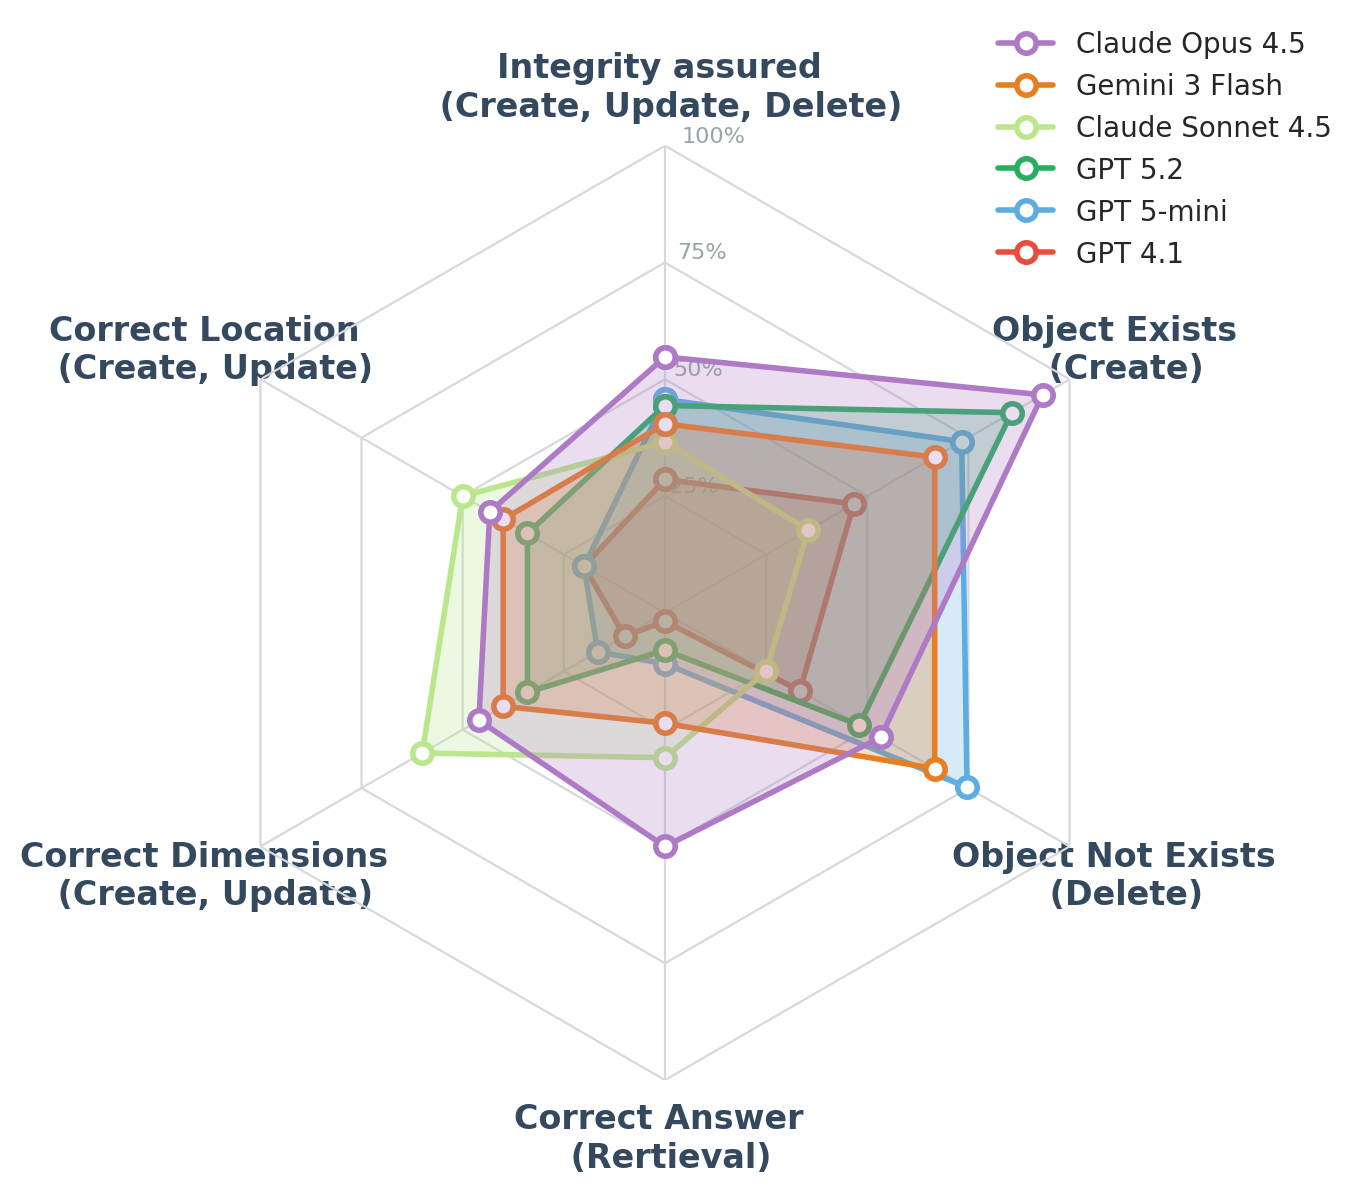
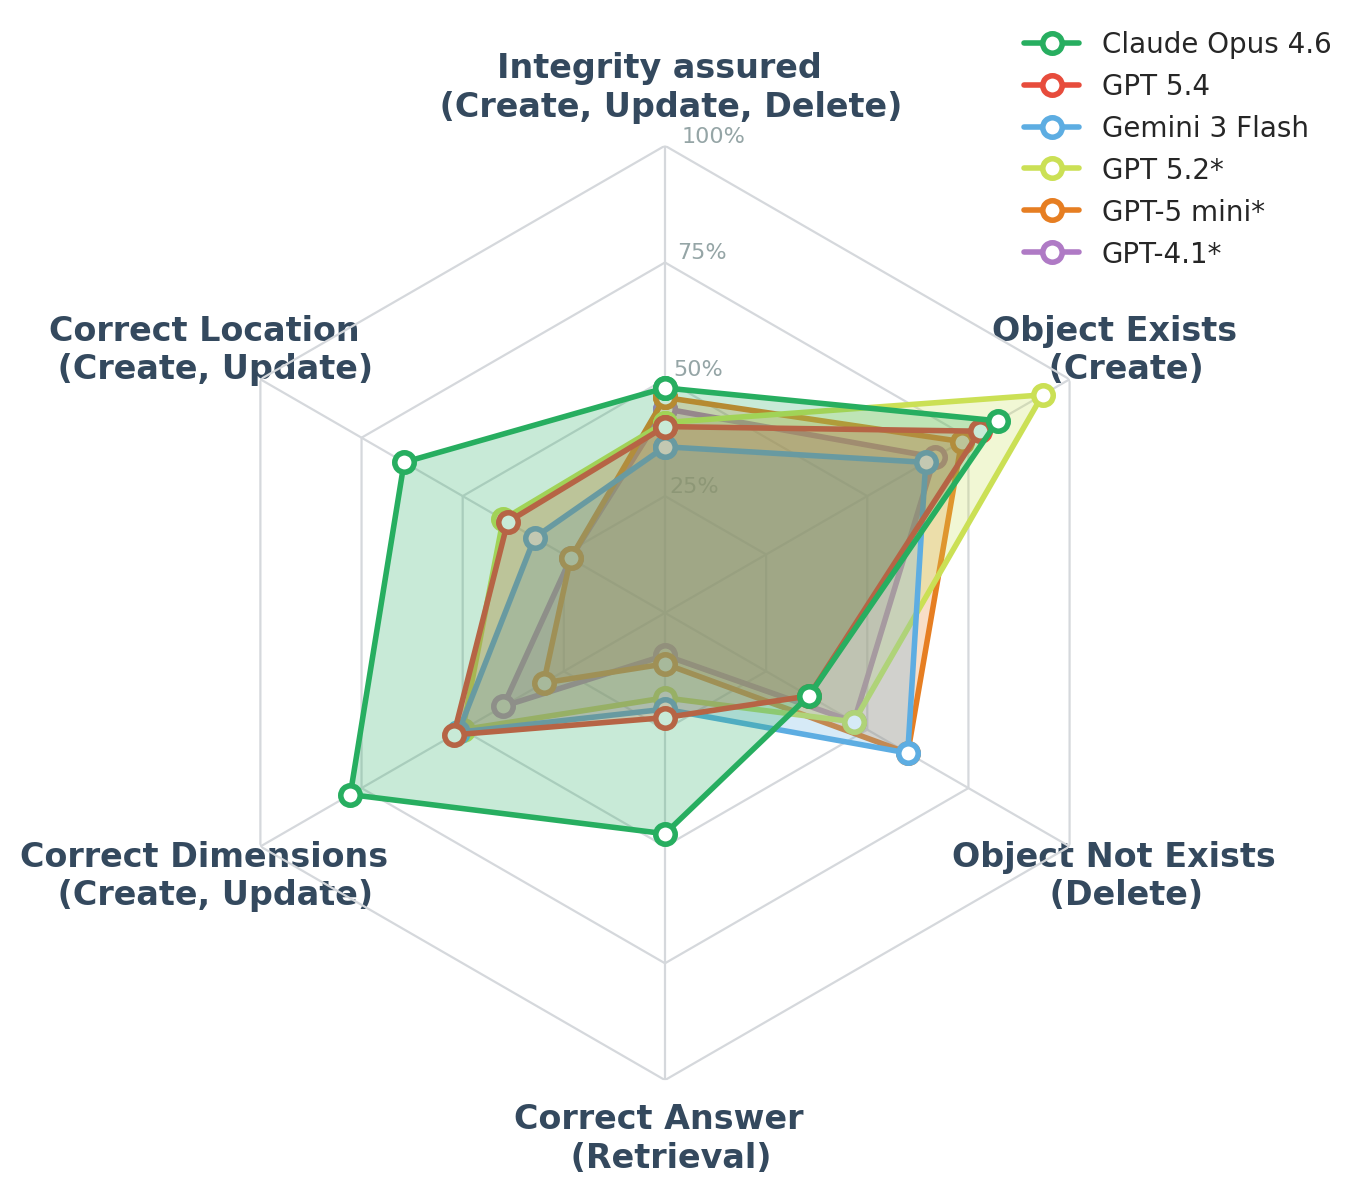
Update new results

Changed region(s): [[0.2467, 0.2789, 0.7709, 0.7127], [0.7401, 0.031, 0.9868, 0.2169], [0.4626, 0.9606, 0.4934, 0.9916]]

diff --git a/index.html b/index.html
@@ -257,6 +257,17 @@
         .results-table .best {
             font-weight: bold;
         }
+        .results-table .std {
+            color: #888;
+            font-size: 0.85em;
+        }
+        .results-note {
+            font-size: 0.85em;
+            color: #666;
+            text-align: left;
+            padding: 0 20px 10px 20px;
+            margin-top: -10px;
+        }
 
         /* --- Task category pills --- */
         .category-pills {
@@ -386,9 +397,6 @@
 
             <div class="header-actions">
                 <a class="button" href="#" target="_blank">
-                    <i class="fas fa-file-pdf"></i> Arxiv
-                </a>
-                <a class="button" href="#" target="_blank">
                     <i class="fas fa-database"></i> HuggingFace
                 </a>
                 <a class="button" href="https://github.com/nbharathik/bibimbap" target="_blank">
@@ -411,7 +419,7 @@
         <div style="max-width: 800px; margin: auto;">
             <h3>Abstract</h3>
 
-            <p style="padding: 40px; padding-top: 0; padding-bottom: 20px;">Large Language Models (LLMs) are increasingly used as natural-language interfaces for Building Information Modeling (BIM), yet the community lacks a benchmark to evaluate whether LLM-driven systems can reliably edit Industry Foundation Classes (IFC) models beyond information retrieval. We introduce <b>BIBIMBAP</b>, a Text-to-BIM benchmark with <b>100 curated tasks</b> spanning the full set of <b>CRUD operations</b> and organized into spatial, geometric, topological, numeric, and conceptual understanding tasks. Each task provides a natural-language prompt, a reference IFC model, structured expected outputs, and executable test scripts to enable reproducible, automated evaluation. We run baseline experiments across multiple LLMs using a simple code-execution setup. The results show limited overall success, with common failures in preserving BIM constraints and spatial reasoning. Overall, BIBIMBAP provides a foundation for comparing Text-to-BIM systems and analyzing their failure modes.</p>
+            <p style="padding: 40px; padding-top: 0; padding-bottom: 20px;">Large Language Models (LLMs) are emerging as natural-language interfaces for Building Information Modeling (BIM), successfully achieving information retrieval, but no benchmark exists to evaluate their ability to edit Industry Foundation Classes (IFC). We introduce BIBIMBAP, a Text-to-BIM benchmark with 100 curated tasks covering Create-Read-Update-Delete (CRUD) operations across spatial, geometric, topological, numeric, and conceptual categories. Each task includes a natural-language prompt, an IFC model, expected structured outputs, and test scripts for automated evaluation. Baseline results show limited performance (best: 50.2%) and frequent failures in constraint preservation and spatial reasoning, with some correct outputs achieved despite flawed reasoning. </p>
         </div>
     </div>
 
@@ -421,7 +429,7 @@
 
             <ul class="contrib-list" style="padding-left: 60px; padding-right: 40px; padding-bottom: 20px;">
                 <li><b>Full CRUD Task Suite</b><br>
-                A set of 100 Text-to-BIM tasks spanning the full CRUD operations (Create, Read, Update, Delete) and multiple reasoning categories: basic, spatial, topological, numeric, and conceptual.
+                A set of 100 Text-to-BIM tasks spanning the full CRUD operations (Create, Read, Update, Delete) and multiple reasoning categories: direct, spatial, topological, numeric, and conceptual.
                 </li>
                 <li><b>Standardized Prompt Grammar</b><br>
                 A prompt grammar (operator / operand / context specifiers) that standardizes task formulation and supports systematic analysis and extensibility of the benchmark.
@@ -430,7 +438,7 @@
                 An automated pipeline with procedural tests and fine-grained evaluation metrics (existence, location, dimensions, correctness, and IFC integrity constraints) that enables reproducible, deterministic evaluation without LLM-as-a-judge.
                 </li>
                 <li><b>Baseline Experiments</b><br>
-                A validation of the benchmark across multiple LLMs (Claude Opus 4.5, Claude Sonnet 4.5, Gemini 3 Flash, GPT-5.2, GPT-5 Mini, GPT-4.1), establishing baselines and analyzing common failure modes.
+                A validation of the benchmark across multiple LLMs (Claude Opus 4.6, GPT-5.4, Gemini 3 Flash, GPT-5.2, GPT-5 Mini, GPT-4.1), establishing baselines and analyzing common failure modes.
                 </li>
             </ul>
         </div>
@@ -442,7 +450,7 @@
             <h3>Task Categories</h3>
             <p>Tasks are organized by CRUD operation and further grouped by reasoning requirements:</p>
             <ul style="padding-left: 80px; padding-right: 40px; padding-bottom: 10px;">
-                <li><b>Basic:</b> Tasks where all required information is explicitly provided in the prompt (e.g., create a wall at given coordinates).</li>
+                <li><b>Direct:</b> Tasks where all required information is explicitly provided in the prompt (e.g., create a wall at given coordinates).</li>
                 <li><b>Spatial:</b> Tasks requiring understanding of spatial/geometric concepts (e.g., place a window centered on the longest wall).</li>
                 <li><b>Topological:</b> Tasks requiring understanding of topological relationships between IFC elements (e.g., move a door from one wall to another).</li>
                 <li><b>Numeric:</b> Tasks requiring numerical computation or aggregation (e.g., compute total floor area).</li>
@@ -485,7 +493,7 @@
     <div id="results" style="width: 100%; background-color: white;">
         <div style="max-width: 800px; margin: auto;">
             <h3>Results</h3>
-            <p style="padding: 0 40px 10px 40px;">We evaluated six LLMs on BIBIMBAP using a simple code-execution setup with IfcOpenShell. The results reveal limited overall success, with all models scoring below 40% on average.</p>
+            <p style="padding: 0 40px 10px 40px;">We evaluated six LLMs on BIBIMBAP using a simple code-execution setup with IfcOpenShell. Overall success remains limited: the best model, Claude Opus 4.6, reaches only 50.2% on average, while the remaining models score between 24% and 31%. The top three models (Claude Opus 4.6, GPT-5.4, Gemini 3 Flash) are averaged over three runs (mean &plusmn; std. dev.); the others are single-run.</p>
 
             <h4 style="text-align: center; padding-left: 0;">Model Performance by Category (%)</h4>
             <div class="results-table-wrapper">
@@ -493,7 +501,7 @@
                     <thead>
                         <tr>
                             <th>Model</th>
-                            <th>Basic (20)</th>
+                            <th>Direct (20)</th>
                             <th>Spatial (20)</th>
                             <th>Topological (20)</th>
                             <th>Numeric (20)</th>
@@ -503,64 +511,65 @@
                     </thead>
                     <tbody>
                         <tr>
-                            <td>Claude Opus 4.5</td>
-                            <td>46.3</td>
-                            <td class="best">60.8</td>
-                            <td>38.8</td>
-                            <td class="best">30.0</td>
-                            <td>20.0</td>
-                            <td class="best">39.2</td>
+                            <td>Claude Opus 4.6</td>
+                            <td class="best">65.83<span class="std"> &plusmn;0.16</span></td>
+                            <td class="best">63.89<span class="std"> &plusmn;0.22</span></td>
+                            <td class="best">53.06<span class="std"> &plusmn;0.19</span></td>
+                            <td class="best">38.33<span class="std"> &plusmn;0.24</span></td>
+                            <td class="best">30.00<span class="std"> &plusmn;0.21</span></td>
+                            <td class="best">50.22<span class="std"> &plusmn;0.22</span></td>
+                        </tr>
+                        <tr>
+                            <td>GPT-5.4</td>
+                            <td>62.15<span class="std"> &plusmn;0.40</span></td>
+                            <td>42.08<span class="std"> &plusmn;0.24</span></td>
+                            <td>20.56<span class="std"> &plusmn;0.10</span></td>
+                            <td>26.67<span class="std"> &plusmn;0.22</span></td>
+                            <td>5.00<span class="std"> &plusmn;0.00</span></td>
+                            <td>31.29<span class="std"> &plusmn;0.04</span></td>
                         </tr>
                         <tr>
                             <td>Gemini 3 Flash</td>
-                            <td class="best">54.2</td>
-                            <td>45.8</td>
-                            <td class="best">44.2</td>
-                            <td>5.0</td>
-                            <td>15.0</td>
-                            <td>32.8</td>
+                            <td>65.42<span class="std"> &plusmn;10.4</span></td>
+                            <td>40.97<span class="std"> &plusmn;1.73</span></td>
+                            <td>21.11<span class="std"> &plusmn;3.37</span></td>
+                            <td>20.00<span class="std"> &plusmn;5.00</span></td>
+                            <td>6.67<span class="std"> &plusmn;2.33</span></td>
+                            <td>30.83<span class="std"> &plusmn;1.91</span></td>
                         </tr>
                         <tr>
-                            <td>GPT-5.2</td>
-                            <td>42.5</td>
-                            <td>36.0</td>
-                            <td>30.0</td>
-                            <td>5.0</td>
-                            <td class="best">25.0</td>
-                            <td>27.7</td>
+                            <td>GPT-5.2*</td>
+                            <td>52.50</td>
+                            <td>34.58</td>
+                            <td>35.42</td>
+                            <td>5.00</td>
+                            <td>25.00</td>
+                            <td>30.50</td>
                         </tr>
                         <tr>
-                            <td>Claude Sonnet 4.5</td>
-                            <td>47.9</td>
-                            <td>36.6</td>
-                            <td>32.9</td>
-                            <td>10.0</td>
-                            <td>10.0</td>
-                            <td>27.5</td>
+                            <td>GPT-5 Mini*</td>
+                            <td>50.94</td>
+                            <td>25.83</td>
+                            <td>25.83</td>
+                            <td>0.00</td>
+                            <td>25.00</td>
+                            <td>25.00</td>
                         </tr>
                         <tr>
-                            <td>GPT-5 Mini</td>
-                            <td>35.0</td>
-                            <td>33.5</td>
-                            <td>27.9</td>
-                            <td>0.0</td>
-                            <td class="best">25.0</td>
-                            <td>24.3</td>
-                        </tr>
-                        <tr>
-                            <td>GPT-4.1</td>
-                            <td>17.5</td>
-                            <td>34.2</td>
-                            <td>21.7</td>
-                            <td>0.0</td>
-                            <td>20.0</td>
-                            <td>18.7</td>
+                            <td>GPT-4.1*</td>
+                            <td>38.33</td>
+                            <td>30.00</td>
+                            <td>31.25</td>
+                            <td>0.00</td>
+                            <td>20.00</td>
+                            <td>23.92</td>
                         </tr>
                     </tbody>
                 </table>
             </div>
+            <p class="results-note">* Single-run results. The top three models are averaged over three runs (mean &plusmn; std. dev.). Bold marks the best score in each column.</p>
 
-            <h4 style="text-align: center; padding-left: 0;">CRUD Operation Success Share by Model (%)</h4>
+            <h4 style="text-align: center; padding-left: 0;">CRUD Operation Success Rate by Model (%)</h4>
             <div class="results-table-wrapper">
                 <table class="results-table">
                     <thead>
@@ -574,50 +583,51 @@
                     </thead>
                     <tbody>
                         <tr>
-                            <td>Claude Opus 4.5</td>
-                            <td class="best">73.3</td>
-                            <td>30.9</td>
-                            <td>37.8</td>
-                            <td>36.7</td>
+                            <td>Claude Opus 4.6</td>
+                            <td class="best">81.1<span class="std"> &plusmn;0.2</span></td>
+                            <td class="best">47.3<span class="std"> &plusmn;0.3</span></td>
+                            <td class="best">61.5<span class="std"> &plusmn;0.2</span></td>
+                            <td>18.9<span class="std"> &plusmn;0.1</span></td>
+                        </tr>
+                        <tr>
+                            <td>GPT-5.4</td>
+                            <td>56.0<span class="std"> &plusmn;0.3</span></td>
+                            <td>22.4<span class="std"> &plusmn;0.0</span></td>
+                            <td>50.4<span class="std"> &plusmn;0.3</span></td>
+                            <td>20.0<span class="std"> &plusmn;0.2</span></td>
                         </tr>
                         <tr>
                             <td>Gemini 3 Flash</td>
-                            <td>53.3</td>
-                            <td>43.3</td>
-                            <td>23.6</td>
-                            <td>35.5</td>
+                            <td>45.6<span class="std"> &plusmn;8.4</span></td>
+                            <td>20.6<span class="std"> &plusmn;1.1</span></td>
+                            <td>46.7<span class="std"> &plusmn;2.2</span></td>
+                            <td>37.8<span class="std"> &plusmn;6.9</span></td>
                         </tr>
                         <tr>
-                            <td>GPT-5.2</td>
-                            <td>60.0</td>
+                            <td>GPT-5.2*</td>
+                            <td>58.9</td>
                             <td>18.2</td>
+                            <td>51.1</td>
                             <td>26.7</td>
-                            <td>31.3</td>
                         </tr>
                         <tr>
-                            <td>Claude Sonnet 4.5</td>
-                            <td>30.0</td>
-                            <td>18.2</td>
-                            <td class="best">46.6</td>
-                            <td class="best">40.0</td>
-                        </tr>
-                        <tr>
-                            <td>GPT-5 Mini</td>
-                            <td>38.3</td>
-                            <td class="best">54.7</td>
+                            <td>GPT-5 Mini*</td>
+                            <td>31.2</td>
                             <td>10.9</td>
-                            <td>28.9</td>
+                            <td>55.5</td>
+                            <td class="best">43.3</td>
                         </tr>
                         <tr>
-                            <td>GPT-4.1</td>
-                            <td>26.7</td>
-                            <td>40.0</td>
+                            <td>GPT-4.1*</td>
+                            <td>29.4</td>
                             <td>9.0</td>
-                            <td>24.4</td>
+                            <td>60.0</td>
+                            <td>36.6</td>
                         </tr>
                     </tbody>
                 </table>
             </div>
+            <p class="results-note">* Single-run results. The top three models are averaged over three runs (mean &plusmn; std. dev.). Bold marks the best score in each column.</p>
 
             <div style="text-align: center; padding: 10px 20px 10px 20px;">
                 <img src="assets/metrics.png" style="width: 70%; max-width: 500px;" alt="Radar chart showing model performance across six evaluation criteria">
@@ -626,10 +636,11 @@
 
             <h3 style="text-align: center; padding-left: 0;">Key Findings</h3> 
             <ul style="padding-left: 80px; padding-right: 40px; padding-bottom: 20px;">
-                <li><b>Claude Opus 4.5</b> achieves the highest overall score (39.2%), excelling in spatial reasoning (60.8%) and element creation (73.3%).</li>
-                <li><b>Numeric tasks</b> are the hardest category across all models, with most scoring below 10%.</li>
-                <li><b>No model dominates all categories</b>. Strengths vary across CRUD operations and reasoning types.</li>
-                <li>Even when code executes successfully, models often fail at correct element selection, proper computations, or maintaining consistent IFC integrity.</li>
+                <li><b>Claude Opus 4.6</b> achieves the highest overall score (50.2%), leading in every category and excelling at element creation (81.1%).</li>
+                <li><b>Even the best model solves only about half the tasks</b>, showing that reliable Text-to-BIM manipulation remains challenging.</li>
+                <li><b>Numeric-calculative tasks</b> are the most difficult category for all models, requiring multi-step aggregation and computation from geometry.</li>
+                <li><b>Integrity constraints</b> are the hardest evaluation criterion: models can create or delete entities but struggle to keep IFC relationships consistent.</li>
+                <li><b>Iterative tool use helps</b>: Claude Opus 4.6 makes the most tool calls (~4.9 per task) and achieves the strongest results.</li>
             </ul>
         </div>
     </div>
